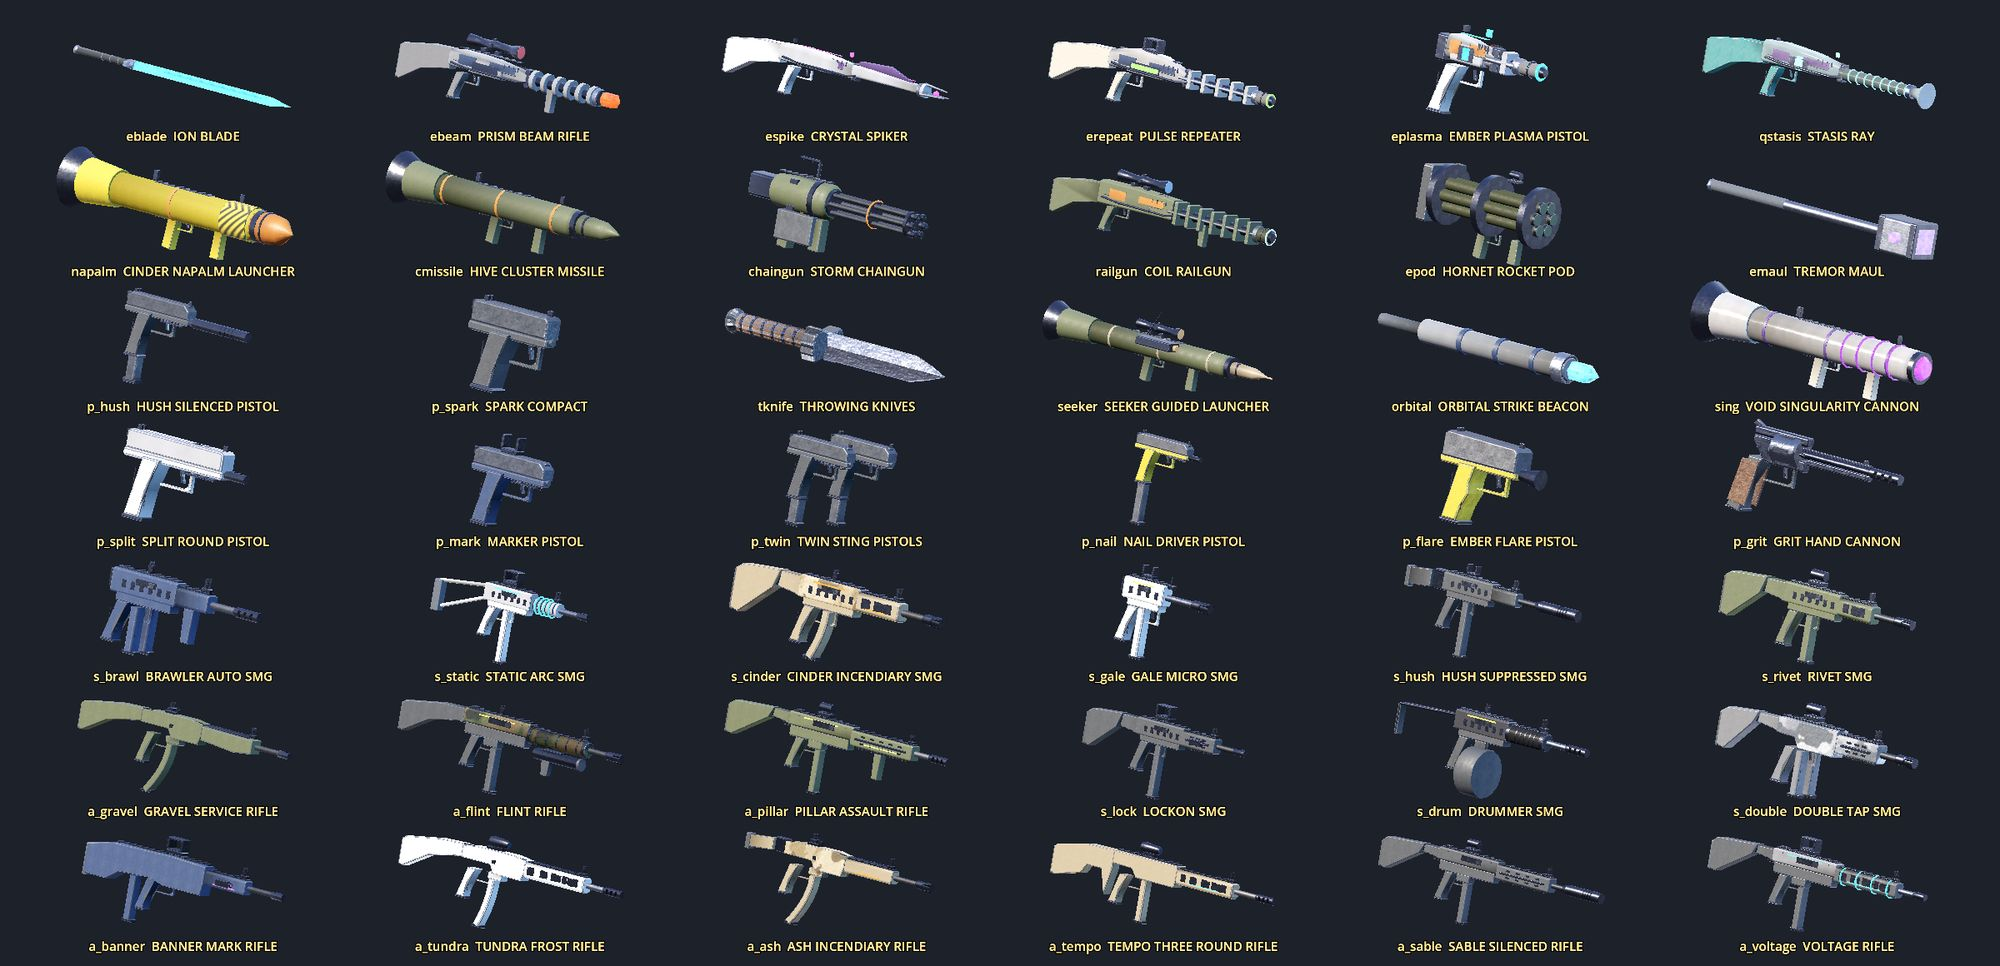
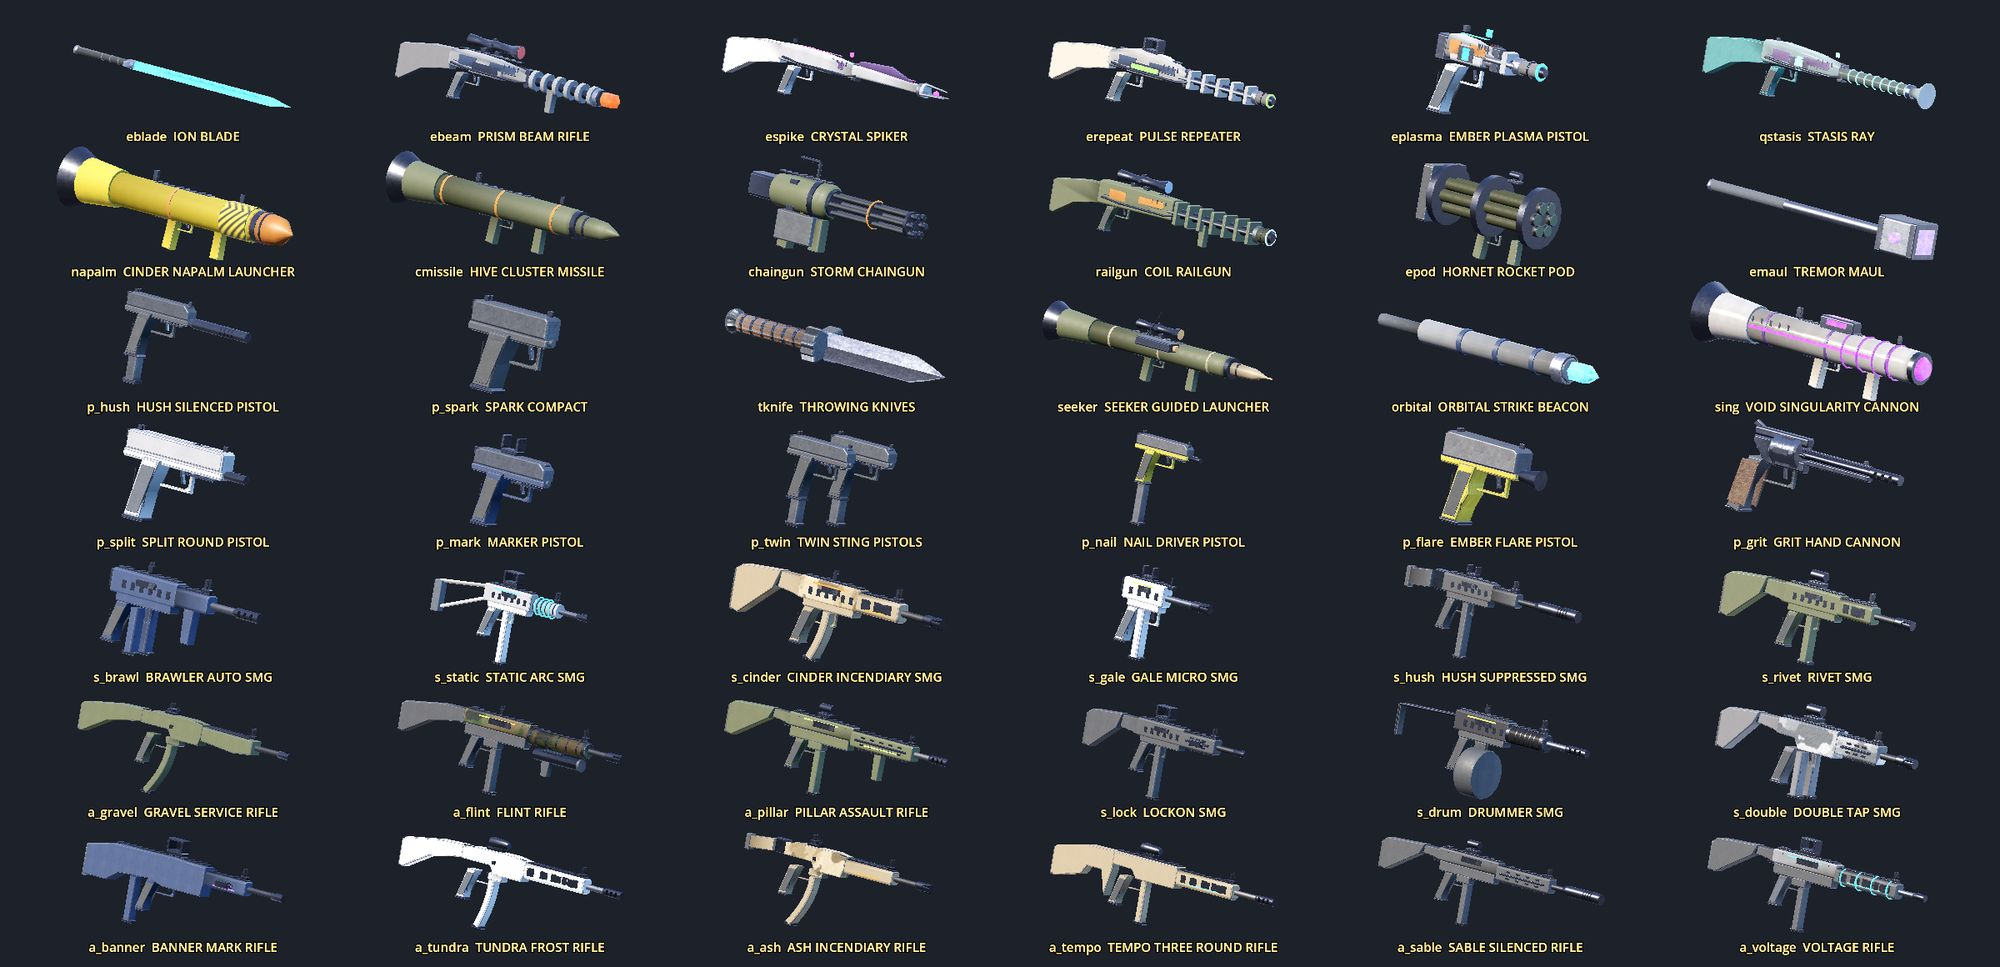
WIP snapshot 2026-11-14 15:12Z: 577 uncommitted files of the round 6 sprint on top of 75b50ee. Untested safety copy, not for main.
Claude-Session: https://claude.ai/code/session_01WbKrgUpExX7TuSc4cdY35F

diff --git a/docs/sprint/progress/auto_w114-weapons-art.md b/docs/sprint/progress/auto_w114-weapons-art.md
@@ -1,6 +1,6 @@
 # w114-weapons-art (running)
 
-agent id a253933c3d36a6bfc, 611 events, first activity 2026-11-14T12:49:06.241Z, last activity 2026-11-14T14:49:43.846Z
+agent id a253933c3d36a6bfc, 689 events, first activity 2026-11-14T12:49:06.241Z, last activity 2026-11-14T15:04:42.689Z
 
 ## Last notes of the agent
 
@@ -9,34 +9,10 @@ agent id a253933c3d36a6bfc, 611 events, first activity 2026-11-14T12:49:06.241Z,
 - 13:16:20 Pipeline validated end to end (GLB quantized import, texture arrays, UV channels). Now the parts library. First the shared helpers and firearm parts.
 - 14:01:42 Now the dedicated test file for the kit models.
 - 14:43:20 Now the documentation sections (ARCHITECTURE.md and HANDOFF.md).
+- 14:54:57 Let me look at the first and last batches to confirm the final look before writing the sheets.
 
 ## Recent steps (last 40)
 
-- 14:13:55 Palette, camo and bow tweaks; rebuild all; render the final-style lineups
-- 14:13:56 /tmp/claude-0/-home-user-QUANTUM-Teleportar/2e2fe9d5-4efc-51be-91b4-8eed795e3168/scratchpad/work/lin/c2.png
-- 14:16:14 Darken the polymer tints, rebuild and re-render lineups
-- 14:16:15 /tmp/claude-0/-home-user-QUANTUM-Teleportar/2e2fe9d5-4efc-51be-91b4-8eed795e3168/scratchpad/work/lin/c0.png
-- 14:18:38 Run the touched and neighbouring tests
-- 14:22:56 Read the failing open-models test section
-- 14:23:02 Split the stub mesh out of mesh() for the fallback tests
-- 14:23:10 Point the open-models test at the stub meshes and rerun both tests
-- 14:24:01 Make the before/after sheet and the six lineup JPGs
-- 14:24:01 /home/user/QUANTUM_Teleportar/docs/shots/round6/weapon_kit_before_after.jpg
-- 14:24:47 Give the starter weapons classic wood-and-steel forms and rebuild them
-- 14:24:48 /tmp/claude-0/-home-user-QUANTUM-Teleportar/2e2fe9d5-4efc-51be-91b4-8eed795e3168/scratchpad/work/ba/x.png
-- 14:25:19 In-hand frame bot for the carbine and the minigun at LOW
-- 14:27:42 In-hand frame bot for the rail rifle and the pistol at MED
-- 14:32:00 Build the in-hand firing and reload contact sheet
-- 14:32:01 /home/user/QUANTUM_Teleportar/docs/shots/round6/weapon_kit_in_hand.jpg
-- 14:32:11 Crop the weapon area of two firing frames at full resolution
-- 14:32:12 /tmp/claude-0/-home-user-QUANTUM-Teleportar/2e2fe9d5-4efc-51be-91b4-8eed795e3168/scratchpad/work/ih/crop.png
-- 14:32:28 Raise the kit look scale a little and render the enemy-held weapon frames
-- 14:32:28 /home/user/QUANTUM_Teleportar/docs/shots/round6/weapon_kit_enemies.jpg
-- 14:33:08 Check the working tree changes and ignore rules
-- 14:33:18 Compute the size and memory report of the weapon kit assets
-- 14:33:29 Run the performance gate on LOW, MED and HIGH
-- 14:40:58 A/B the MED perf with the weapon kit switched off
-- 14:43:19 Find where to add the documentation sections
 - 14:43:57 Write the ARCHITECTURE.md and HANDOFF.md sections
 - 14:44:05 Render the starter weapons large for a critical look
 - 14:44:06 /tmp/claude-0/-home-user-QUANTUM-Teleportar/2e2fe9d5-4efc-51be-91b4-8eed795e3168/scratchpad/work/ba/st.png
@@ -52,6 +28,31 @@ agent id a253933c3d36a6bfc, 611 events, first activity 2026-11-14T12:49:06.241Z,
 - 14:49:07 Count ok lines and find the verdict of the weapon model test
 - 14:49:39 Inspect errors logged during the live part of the test
 - 14:49:43 Run the other touched weapon tests and look for preview tests
+- 14:51:16 Find tests that touch the edited scripts
+- 14:51:19 Run enemy look, UI kit and hero tests touching edited scripts
+- 14:53:34 Read the lineup script usage and list scratch work dir
+- 14:53:37 Check existing contact sheet sizes and scratch lineup files
+- 14:53:43 Render the six final lineup batches
+- 14:54:58 /tmp/claude-0/-home-user-QUANTUM-Teleportar/2e2fe9d5-4efc-51be-91b4-8eed795e3168/scratchpad/work/fin/n0.png
+- 14:54:58 /tmp/claude-0/-home-user-QUANTUM-Teleportar/2e2fe9d5-4efc-51be-91b4-8eed795e3168/scratchpad/work/fin/n3.png
+- 14:55:02 Write the six lineup contact sheets as jpg quality 80
+- 14:55:09 Recall how in-hand and enemy frames were captured
+- 14:55:12 /home/user/QUANTUM_Teleportar/docs/shots/round6/weapon_kit_in_hand.jpg
+- 14:55:12 /home/user/QUANTUM_Teleportar/docs/shots/round6/weapon_kit_enemies.jpg
+- 14:55:22 List bots that spawn enemies near the hero
+- 14:55:27 Read the enemy look bot to reuse its spawn approach
+- 14:55:30 Read the rest of the enemy look bot view syntax
+- 14:55:36 Find sample OUT_VIEWS usage from the enemy look wave
+- 14:55:49 Look for how the enemy look wave ran its bot
+- 14:55:53 Find EASTFIELD position and enemy look wave notes
+- 14:55:57 Find site ids for the enemy view syntax
+- 14:55:59 Find the EASTFIELD runway position
+- 14:56:01 Read airport coordinates for the runway location
+- 14:56:06 See which weapons the roster enemies hold
+- 14:56:23 Capture enemy-held weapon frames in the real game at phone resolution
+- 15:04:32 /tmp/claude-0/-home-user-QUANTUM-Teleportar/2e2fe9d5-4efc-51be-91b4-8eed795e3168/scratchpad/work/fe/q0_000.png
+- 15:04:32 /tmp/claude-0/-home-user-QUANTUM-Teleportar/2e2fe9d5-4efc-51be-91b4-8eed795e3168/scratchpad/work/fe/q1_002.png
+- 15:04:42 Recapture enemy-held frames with enemies closer to the camera
 
 ## Files this agent edited or wrote (last 80, via Edit/Write; shell edits are not listed: use git status)
 

diff --git a/docs/sprint/progress/auto_w113-ci-apk.md b/docs/sprint/progress/auto_w113-ci-apk.md
@@ -1,6 +1,10 @@
-# w113-ci-apk (running)
+# w113-ci-apk (done)
 
-agent id af6e1756af359fa06, 537 events, first activity 2026-11-14T12:49:06.213Z, last activity 2026-11-14T14:48:55.898Z
+agent id af6e1756af359fa06, 566 events, first activity 2026-11-14T12:49:06.213Z, last activity 2026-11-14T15:09:03.968Z
+
+## Final report
+
+GREEN 75b50ee0148adfb7f59c09a6341768f1b7ae027a APK https://github.com/pikishor/QUANTUM_Teleportar/actions/runs/43607377739 CI on f6c7ade was red (run 43596584732). Fixed in 2621774 and 75b50ee. Final CI run 43604614888 is all green (4 shards, visual 27/27). The Android run succeeded with artifact android-debug-apk (303 MB, no quota error). Real causes fixed: 1. Free-roam raid and stash creatures were despawned by AlienWorld at once (events spawn 170-340 m out). RoamEvents now holds its creatures; test_free_roam_world is stricter. 2. Loadout text overflowed in the runner's wider DejaVu font (UiUtil.fit_text, LoadoutScreen.class_caption). Reproduced locally with a DejaVu-only FONTCONFIG_FILE. 3. Godot shard timeout raised from 30 to 45 min (shard 1 was cancelled at 29 min). 4. Visual QA boss spot flaked on a flat white rectangle (probably a car). The bot now re-looks up to 3 times. Gaps: tests that passed only on retry (test_real_fight, test_soak_quick, test_integration, test_weapon_cards, test_outskirts_settlements). Notes are in docs/HANDOFF.md. Only my own paths were staged; other agents' uncommitted files are untouched.
 
 ## Last notes of the agent
 
@@ -13,14 +17,6 @@ agent id af6e1756af359fa06, 537 events, first activity 2026-11-14T12:49:06.213Z,
 
 ## Recent steps (last 40)
 
-- 13:47:41 Append the CI-fix note to HANDOFF.md
-- 13:47:46 Make the test claim in the note exact
-- 13:47:56 Commit the CI fixes with explicit paths only
-- 13:48:01 Check how my commit relates to origin/main
-- 13:48:03 Pull with rebase (no-op expected) and push to main
-- 13:48:11 Find the CI run for the fix commit
-- 13:48:38 Read the flaky check in test_real_fight
-- 13:48:42 Wait up to 490 s for the new CI run
 - 13:57:05 Wait up to 490 s more for the CI run
 - 14:05:27 Inspect the visual job steps
 - 14:05:32 Read the partial visual job log
@@ -53,6 +49,14 @@ agent id af6e1756af359fa06, 537 events, first activity 2026-11-14T12:49:06.213Z,
 - 14:32:11 Wait up to 490 s more for the round 2 CI run
 - 14:40:34 Wait up to 490 s more for the round 2 CI run
 - 14:48:55 Wait up to 490 s more for the round 2 CI run
+- 14:55:16 Summarize the green run and check origin/main
+- 14:55:24 
+- 14:55:29 Find the queued Android workflow run
+- 14:55:53 Wait up to 480 s for the Android run
+- 15:04:03 Wait up to 480 s more for the Android run
+- 15:08:48 
+- 15:08:49 Confirm the Android run sha, conclusion and steps
+- 15:09:03 
 
 ## Files this agent edited or wrote (last 80, via Edit/Write; shell edits are not listed: use git status)
 

diff --git a/docs/sprint/progress/auto_w114-weapons-ui.md b/docs/sprint/progress/auto_w114-weapons-ui.md
@@ -1,14 +1,53 @@
 # w114-weapons-ui (running)
 
-agent id a4a4e23b267cb6fc4, 12 events, first activity 2026-11-12T22:55:49.341Z, last activity 2026-11-12T22:55:49.547Z
+agent id ac324edf59c1145b1, 128 events, first activity 2026-11-14T15:09:03.986Z, last activity 2026-11-14T15:12:50.417Z
 
 ## Last notes of the agent
 
-- 22:55:49 You've hit your weekly limit · resets 4am (UTC)
+- 15:09:06 I'll start by reading the restart context: progress logs, git status, and the docs.
 
 ## Recent steps (last 40)
 
-- (none)
+- 15:09:08 Read progress logs and repo status
+- 15:09:08 Read resume doc and sizes
+- 15:09:12 Read ROUND6 plan and STATE
+- 15:09:13 Read DESIGN and WORLD_EXPANSION
+- 15:09:17 Read weapons-art builder progress
+- 15:09:17 Read wave 113 weapon roster/blast reports
+- 15:09:22 Read roadmap and architecture section list
+- 15:09:22 HANDOFF sections and uncommitted changes
+- 15:09:29 Current time, git status, ui files, icons
+- 15:09:29 Read weapon roster v3 architecture notes
+- 15:09:39 Size of relevant weapon UI scripts
+- 15:09:39 List relevant tests and tools
+- 15:09:47 Create progress log, read weapon_icons.gd
+- 15:09:47 Read icon maker tools
+- 15:09:52 Rest of icon maker, post.py, item_icons.gd
+- 15:10:15 Read test/bot/shot/import scripts
+- 15:10:16 Machine state
+- 15:10:21 Read UI kit
+- 15:10:25 Read loadout screen
+- 15:10:35 Grep Hud for loadout/weapons/shop routing
+- 15:10:35 Read weapons catalogue screen head
+- 15:10:41 Read rest of weapons catalogue screen
+- 15:10:50 Read Hud head (state vars)
+- 15:10:51 Read Hud input handling
+- 15:11:01 Survey audio code and assets
+- 15:11:02 Read weapon audio maker v3
+- 15:11:08 Read sfx autoload start
+- 15:11:12 Sound calls in player_weapon.gd
+- 15:11:13 Sfx function index
+- 15:11:17 Read Sfx play/impact/variants functions
+- 15:11:24 Read weapon UI bot
+- 15:11:24 Read test_weapon_ui_v3.gd head
+- 15:11:31 Start baseline render of existing weapon screens in background
+- 15:11:38 Find weapon-related scripts
+- 15:11:38 Read WeaponStats
+- 15:11:43 Check baseline render progress and read WeaponBrowser
+- 15:12:36 Check VRAM compression settings and import examples
+- 15:12:37 Check baseline render progress
+- 15:12:42 /tmp/claude-0/-home-user-QUANTUM-Teleportar/2e2fe9d5-4efc-51be-91b4-8eed795e3168/scratchpad/base/a/00_loadout_rifle.png
+- 15:12:50 Wait for baseline renders
 
 ## Files this agent edited or wrote (last 80, via Edit/Write; shell edits are not listed: use git status)
 

diff --git a/docs/sprint/progress/w114-weapons-ui.md b/docs/sprint/progress/w114-weapons-ui.md
@@ -1,0 +1,22 @@
+# w114-weapons-ui (builder: WEAPON PICTURES, SCREENS AND SOUND)
+
+GOAL: (1) icon renderer: every weapon of WeaponDefs.all_ids() (229+) rendered 3/4 with rim light + class backdrop at 512 px, per-class atlases, used everywhere a weapon is shown;
+(2) weapon screens (card with big picture, stat bars, range and blast rings beside a person, compare, filters, favourites, attachments with live stats, loadout 3+ slots, shop, crate reveal) at 844x390 and 1280x720;
+(3) audio: per-class layered weapon sound sets (4+ per major class), reload/equip, explosions by blast size, ricochet and impact by material, hit/kill markers, mix without clipping.
+Tests: tests/test_weapon_ui_v3.gd (extend), tests/test_weapon_audio_v3.gd (new). Perf gate at most twice.
+
+STATUS (2026-11-14 15:10Z): restart notice read; earlier agent with this label did NOTHING (hit the usage limit at once). The weapons-art builder (w114-weapons-art) left 229 glb in
+assets/models/weapons (uncommitted, in the shared tree): WeaponModels.build/mesh/material_for are the entry points.
+
+DONE
+- (nothing yet) survey of weapon UI code in progress.
+
+NEXT
+1. survey: weapon_icons.gd, weapon_preview.gd, weapons_screen.gd, loadout_screen.gd, weapon_wheel.gd, shop_screen.gd, tools/icons, audio tools (make_weapons_v3.py), Audio autoload mapping.
+2. icon renderer + atlases, 3. screens, 4. audio, 5. tests, 6. render-look-fix loops, 7. perf gate, docs.
+
+DECISIONS OTHER AGENTS DEPEND ON
+- (none yet)
+
+TESTS AND PERF: none yet.
+OPEN PROBLEMS: none yet.

diff --git a/docs/sprint/progress/AUTO_INDEX.md b/docs/sprint/progress/AUTO_INDEX.md
@@ -1,6 +1,6 @@
 # Sprint agents (automatic digest)
 
-Written by godot/tools/sprint_digest.py at 2026-11-14 14:50Z. Status 'running' means no final report had been written when the digest was made.
+Written by godot/tools/sprint_digest.py at 2026-11-14 15:12Z. Status 'running' means no final report had been written when the digest was made.
 
 ## workflow run wf_4e87485e-db7
 
@@ -20,6 +20,7 @@ Written by godot/tools/sprint_digest.py at 2026-11-14 14:50Z. Status 'running' m
 
 ## workflow run wf_9ad9fedb-5b9
 
-- w113-ci-apk [Wave 113] running: 537 events, 12:49:06 -> 14:48:55
-- w114-weapons-art [Wave 114] running: 611 events, 12:49:06 -> 14:49:43
+- w113-ci-apk [Wave 113] done: 566 events, 12:49:06 -> 15:09:03
+- w114-weapons-art [Wave 114] running: 689 events, 12:49:06 -> 15:04:42
+- w114-weapons-ui [Wave 114] running: 128 events, 15:09:03 -> 15:12:50
 
